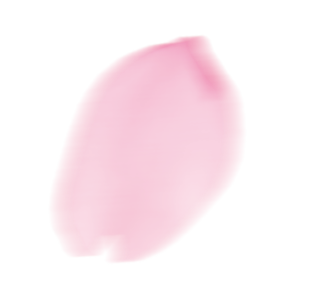
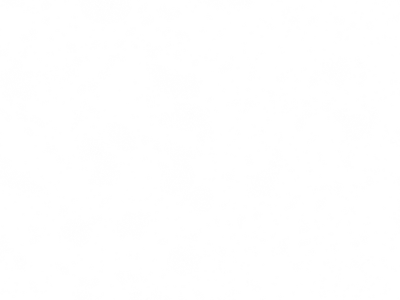
z

Changed region(s): [[0.1524, 0.12, 0.7317, 0.87]]

diff --git a/src/config/sponsorConfig.ts b/src/config/sponsorConfig.ts
@@ -39,22 +39,6 @@ export const sponsorConfig: SponsorConfig = {
 			description: "使用 微信 扫码打赏",
 			enabled: true,
 		},
-		{
-			name: "ko-fi",
-			icon: "simple-icons:kofi",
-			qrCode: "",
-			link: "https://ko-fi.com/cuteleaf",
-			description: "Buy a Coffee for Firefly",
-			enabled: true,
-		},
-		{
-			name: "爱发电",
-			icon: "simple-icons:afdian",
-			qrCode: "",
-			link: "https://ifdian.net/a/cuteleaf",
-			description: "通过 爱发电 进行打赏",
-			enabled: true,
-		},
 	],
 
 	// 打赏者列表（可选）

diff --git a/src/config/navBarConfig.ts b/src/config/navBarConfig.ts
@@ -76,19 +76,13 @@ const getDynamicNavBarConfig = (): NavBarConfig => {
 		children: [
 			{
 				name: "GitHub",
-				url: "https://github.com/CuteLeaf/Firefly",
+				url: "https://github.com/congxuesongzhen/congxue",
 				external: true,
 				icon: "fa7-brands:github",
 			},
 			{
-				name: "Gitee",
-				url: "https://gitee.com/CuteLeaf/Firefly",
-				external: true,
-				icon: "fa7-brands:gitee",
-			},
-			{
-				name: "QQ交流群",
-				url: "https://qm.qq.com/q/ZGsFa8qX2G",
+				name: "QQ",
+				url: "https://qm.qq.com/q/oRdQhC6vKg",
 				external: true,
 				icon: "fa7-brands:qq",
 			},

diff --git a/src/config/profileConfig.ts b/src/config/profileConfig.ts
@@ -9,10 +9,10 @@ export const profileConfig: ProfileConfig = {
 	avatar: "assets/images/avatar.avif",
 
 	// 名字
-	name: "Firefly",
+	name: "Congxue",
 
 	// 个人签名
-	bio: "Hello, I'm Firefly.",
+	bio: "Hello, I'm congxuesongzhen.",
 
 	// 链接配置
 	// 已经预装的图标集：fa7-brands，fa7-regular，fa7-solid，material-symbols，simple-icons
@@ -36,8 +36,8 @@ export const profileConfig: ProfileConfig = {
 		{
 			name: "Email",
 			icon: "fa7-solid:envelope",
-			url: "mailto:[email redacted]",
-			showName: false,
+			url: "[email redacted]",
+			showName: true,
 		},
 		{
 			name: "RSS",

diff --git a/src/config/friendsConfig.ts b/src/config/friendsConfig.ts
@@ -23,7 +23,7 @@ export const friendsPageConfig: FriendsPageConfig = {
 // 友链配置
 export const friendsConfig: FriendLink[] = [
 	{
-		title: "夏夜流萤",
+		title: "聪雪松针",
 		imgurl:
 			"https://weavatar.com/avatar/d252655d40d6874417a720bad0a6c5f77f8f6a1fd2f882f8f338402dc37e4190?s=640",
 		desc: "飞萤之火自无梦的长夜亮起，绽放在终竟的明天。",